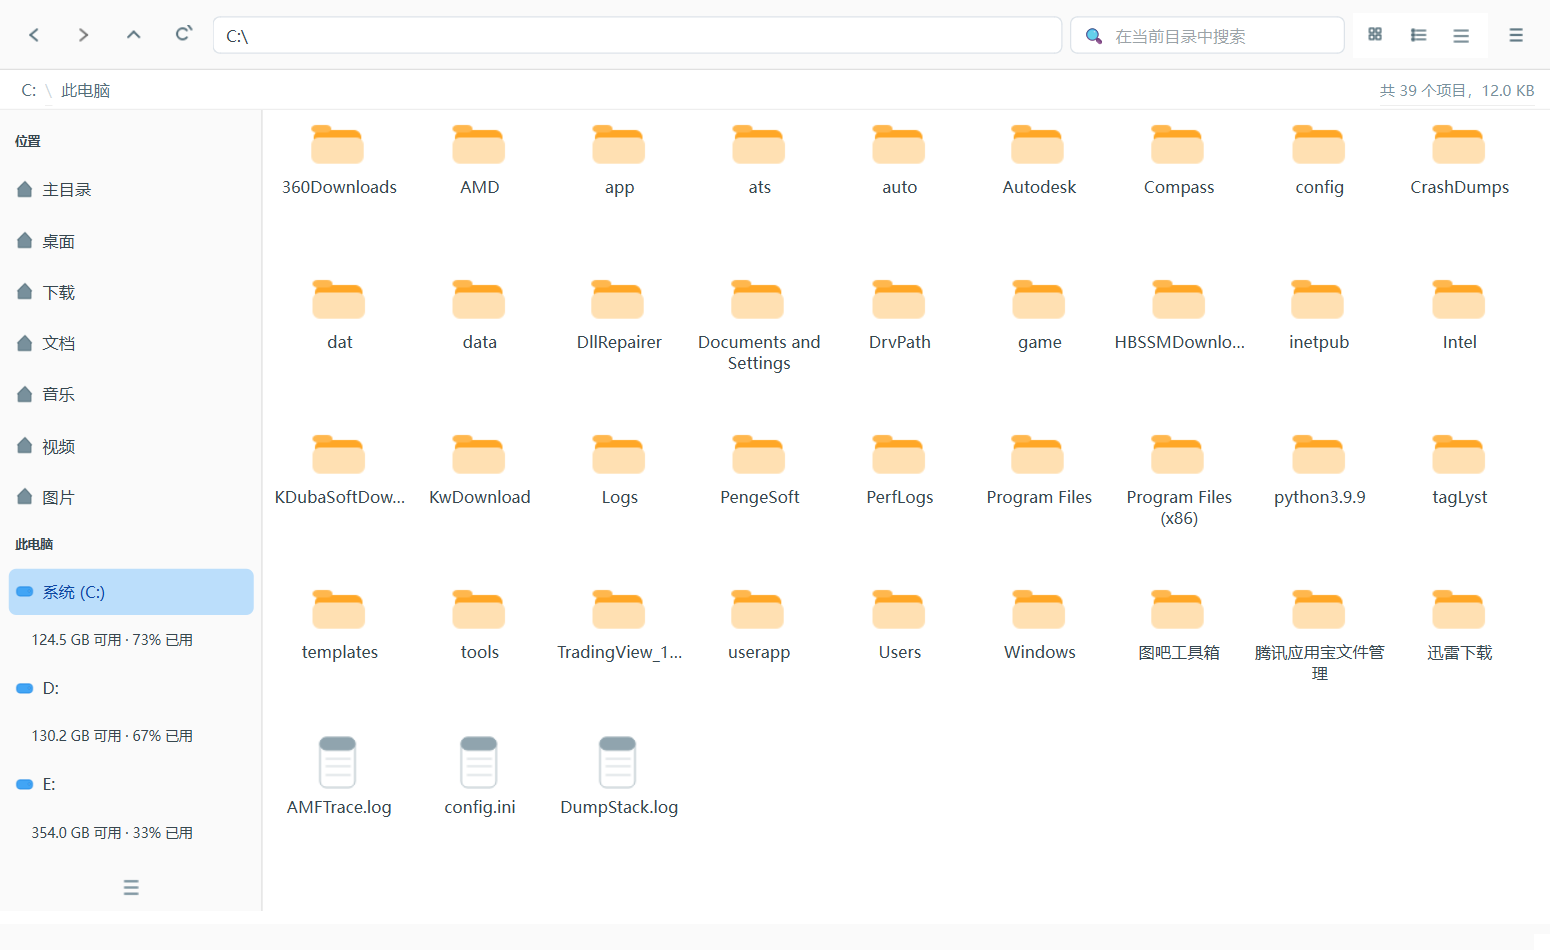
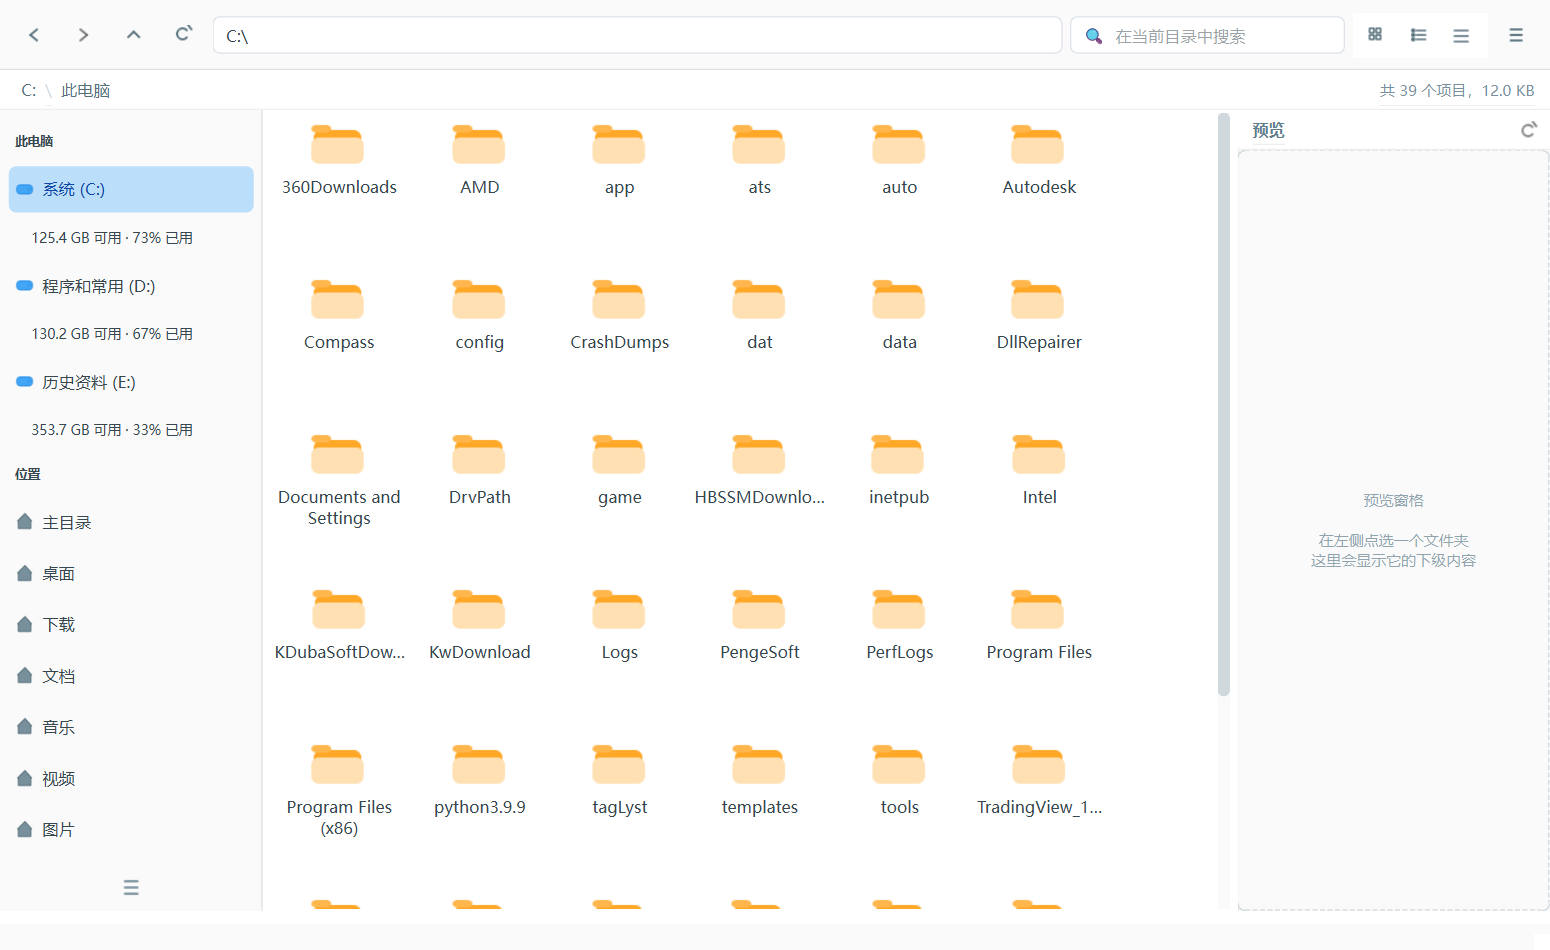
feat: 驱动器栏顺序对调，盘符移到「位置」组上方
原先侧栏是「位置」在前、「此电脑」在后，最常用的盘符跳转入口被压在下面。
现改为：上方「此电脑」列出全部磁盘分区，下方「位置」是主目录、
桌面、下载、文档、音乐、视频、图片。

- refresh_drives() 中交换两组的输出顺序即可，其余逻辑（容量副行、
  tooltip、最长路径匹配的高亮）不受影响
- README 同步更新分组描述
- 新增 shoot_sidebar.py 固化侧栏截图流程
- shot_sidebar.png 更新为新顺序

打包前已确认无 QtExplorer 进程占用 dist 目录，避免 WinError 5。

测试：smoke_test.py 77 项全部通过（含侧栏高亮、多盘切换、点击导航）。

diff --git a/shoot_sidebar.py b/shoot_sidebar.py
@@ -1,0 +1,35 @@
+"""生成侧栏顺序的演示截图。"""
+import os
+import sys
+
+sys.path.insert(0, os.path.dirname(os.path.abspath(__file__)))
+
+from PySide6.QtCore import QTimer
+from PySide6.QtGui import QFont
+from PySide6.QtWidgets import QApplication
+
+from main_window import Explorer
+
+HERE = os.path.dirname(os.path.abspath(__file__))
+
+
+def main():
+    app = QApplication.instance() or QApplication([])
+    app.setFont(QFont("Microsoft YaHei UI", 9))
+
+    w = Explorer()
+    w.resize(1240, 760)
+    w.show()
+    w.navigate("C:\\")
+
+    def shot():
+        w.grab().save(os.path.join(HERE, "shot_sidebar.png"))
+        app.quit()
+
+    QTimer.singleShot(1400, shot)
+    app.exec()
+    print("已生成 shot_sidebar.png")
+
+
+if __name__ == "__main__":
+    main()

diff --git a/main_window.py b/main_window.py
@@ -1146,13 +1146,15 @@ class Explorer(QMainWindow):
                 sub.setForeground(QColor("#FF7043" if used_pct >= 90 else "#90A4AE"))
                 self.side_list.addItem(sub)
 
-        if homes:
-            head = self._side_header("位置")
-            for d in homes:
-                add(d)
         if disks:
-            head = self._side_header("此电脑")
+            # 磁盘在上、快捷位置在下：盘符是最高频的跳转入口，
+            # 放最上面一伸手就能点到
+            self._side_header("此电脑")
             for d in disks:
+                add(d)
+        if homes:
+            self._side_header("位置")
+            for d in homes:
                 add(d)
 
         self.side_list.blockSignals(False)

diff --git a/README.md b/README.md
@@ -67,15 +67,16 @@ python run.py
 
 ### 浏览
 
-- 左侧**驱动器栏**：列出全部磁盘分区与常用目录，显示卷标、文件系统类型、剩余容量
+- 左侧**驱动器栏**分两组：上「此电脑」列出全部磁盘分区，下「位置」是主目录/桌面/下载/文档/音乐/视频/图片
+- 每个分区显示卷标、文件系统类型、剩余容量与已用百分比，超90% 标红
 - 侧栏随当前目录自动高亮所在盘（取最长路径匹配，不会被上级盘抢走）
+- `F9` 收起/展开侧栏，分隔条可拖拽调宽
 - 三种视图：**大图标** / **列表** / **详细信息**，按 `Space` 快速循环
 - 详细信息视图含名称、大小、类型、修改时间，点表头即排序
 - 面包屑路径导航，每一级都可点击跳转，支持网络路径 `\\server\share`
 - 前进 / 后退 / 上一级完整历史栈
 - 地址栏直接输入路径回车跳转，`Ctrl+G` 打开「转到」对话框（带桌面/文档/下载等快捷入口）
 - 文件夹始终排在文件前面
-- `F9` 收起/展开侧栏，中间分隔条可拖拽调宽
 
 ### 预览窗格
 
